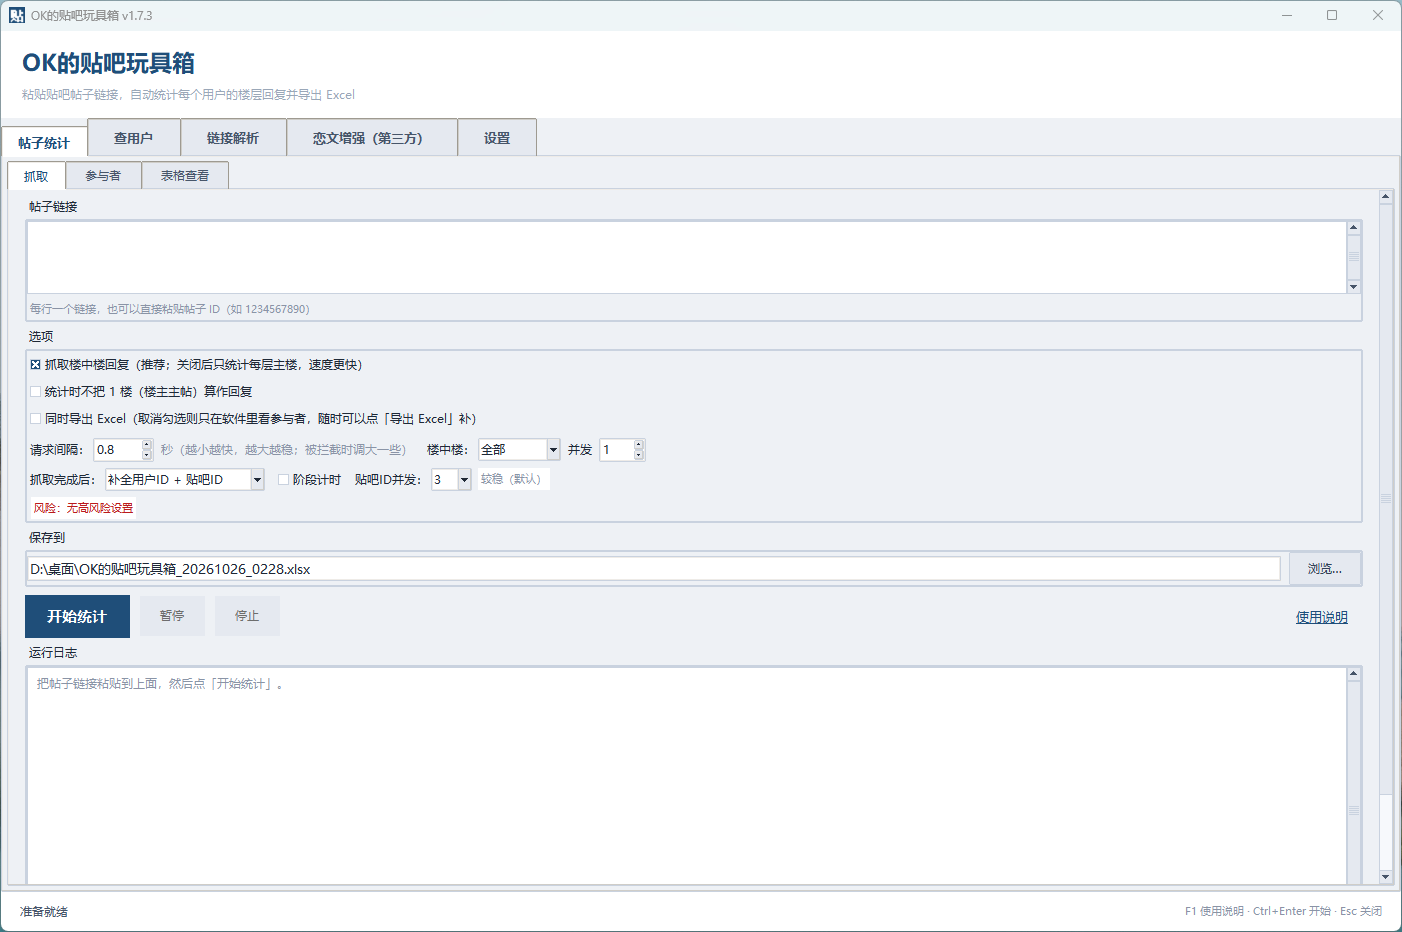
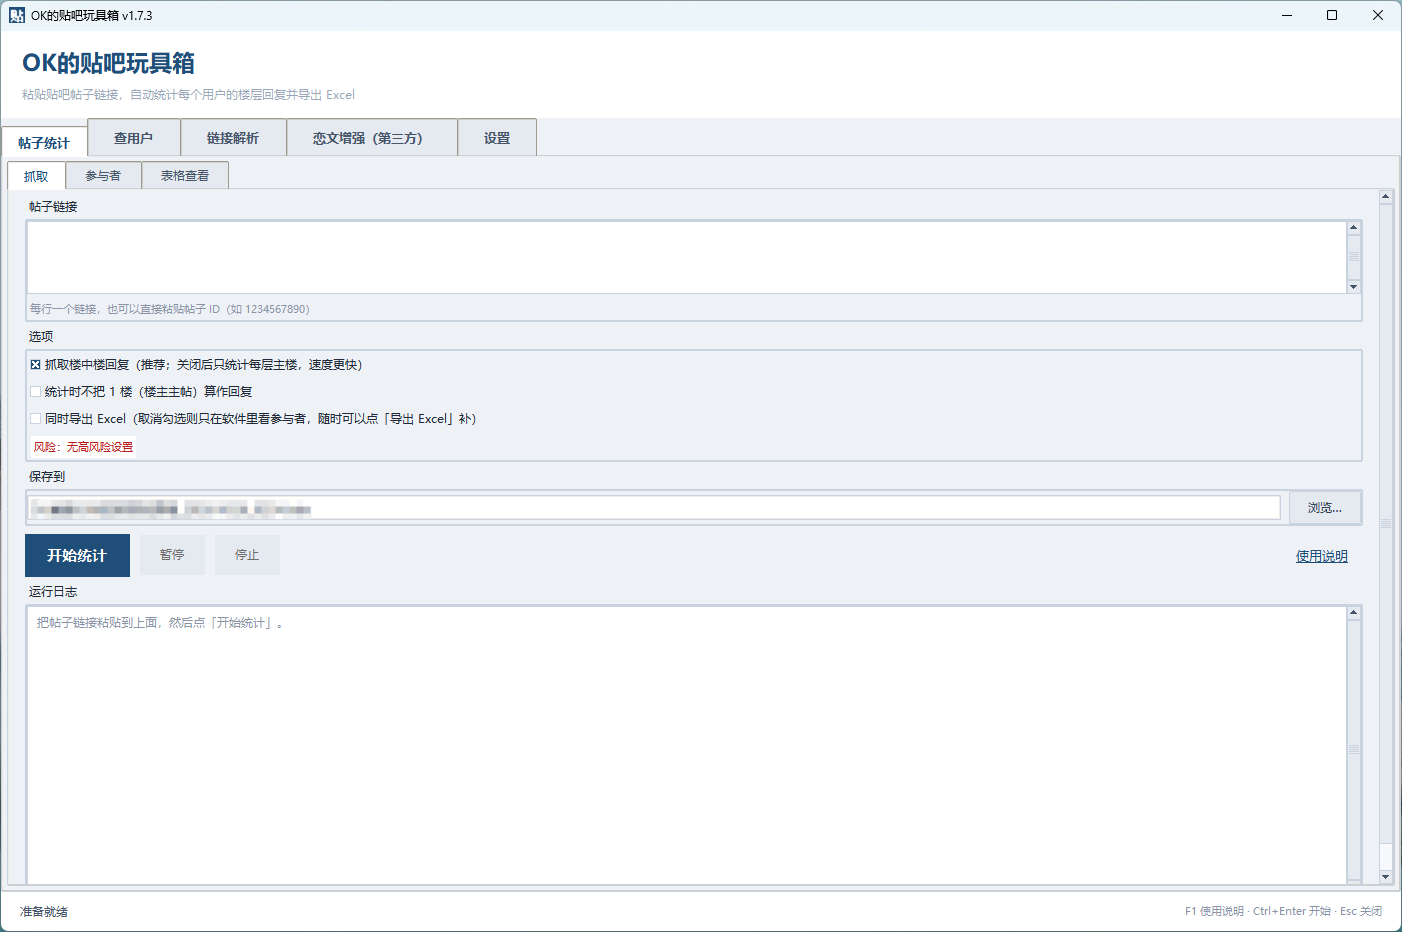
docs: update main screenshot and current limitations

Changed region(s): [[0.0, 0.4667, 0.9815, 0.7468], [0.0307, 0.0, 0.092, 0.0311]]

diff --git a/docs/status.md b/docs/status.md
@@ -283,11 +283,11 @@ Android 核心同步通过
 
 ## 6. 已知限制
 
-- 1.7.1 已完成自动测试与打包验证，但 47 项人工验收需针对 1.7.1 重新跑；
-- 1.7.0 已冻结；1.7.1 验收后的新问题进入 1.7.2，不覆盖 1.7.1；
+- 1.7.3 自动测试、selftest、GitHub Actions 已通过；
+- 真实登录、验证码、WebView2 持久登录、账号切换、中文路径打包版仍需人工验收；
 - 真实 Windows 125%/150% 缩放未人工切换系统设置验证；
 - 微软输入法 Emoji 已通过原生 Edit 设计规避，但未做逐输入法人工验收；
-- exe 已自签名，但证书不在受信任根证书中，SmartScreen 仍会提示未知发布者；
+- 当前 exe 未做代码签名，SmartScreen 可能提示未知发布者；
 - 受信任发布签名需要用户自己的代码签名证书；
 - Android 不跟进 UI；
 - CLI 不跟 GUI 新功能。
